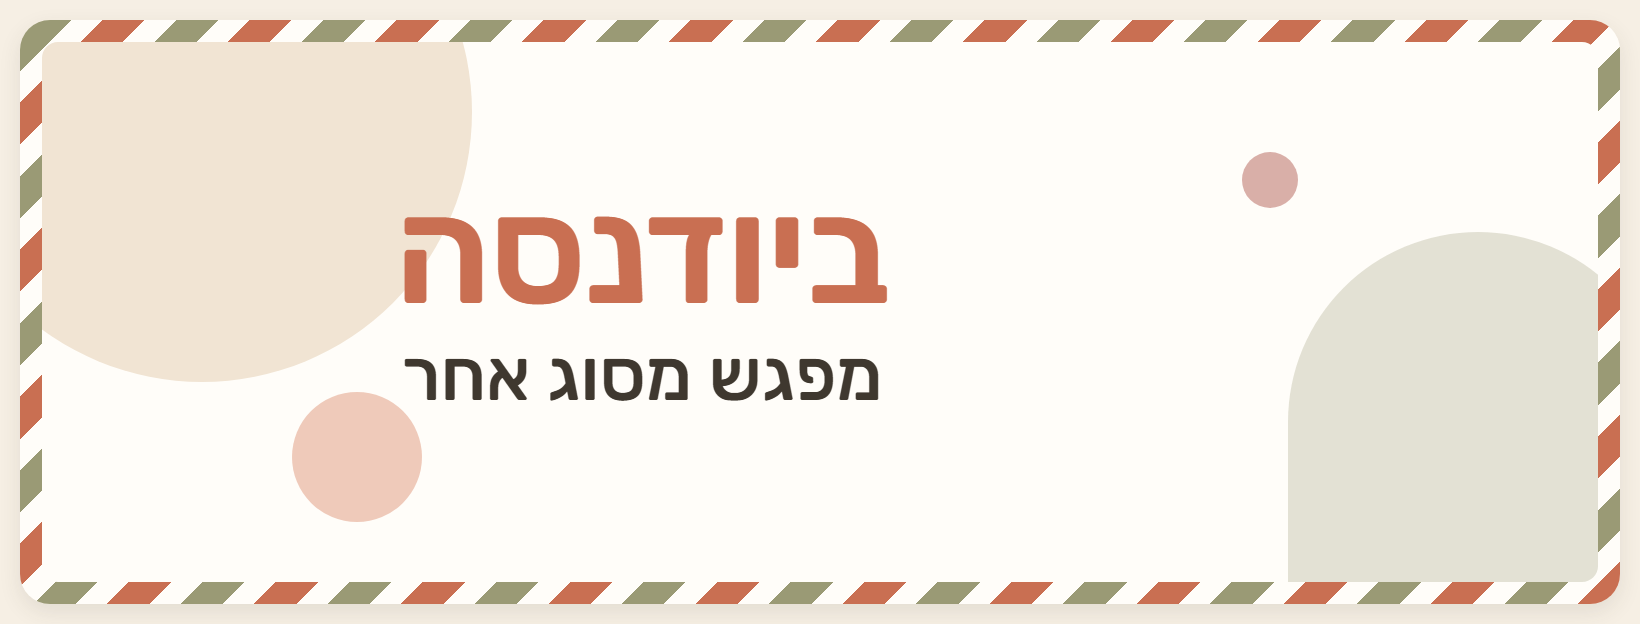
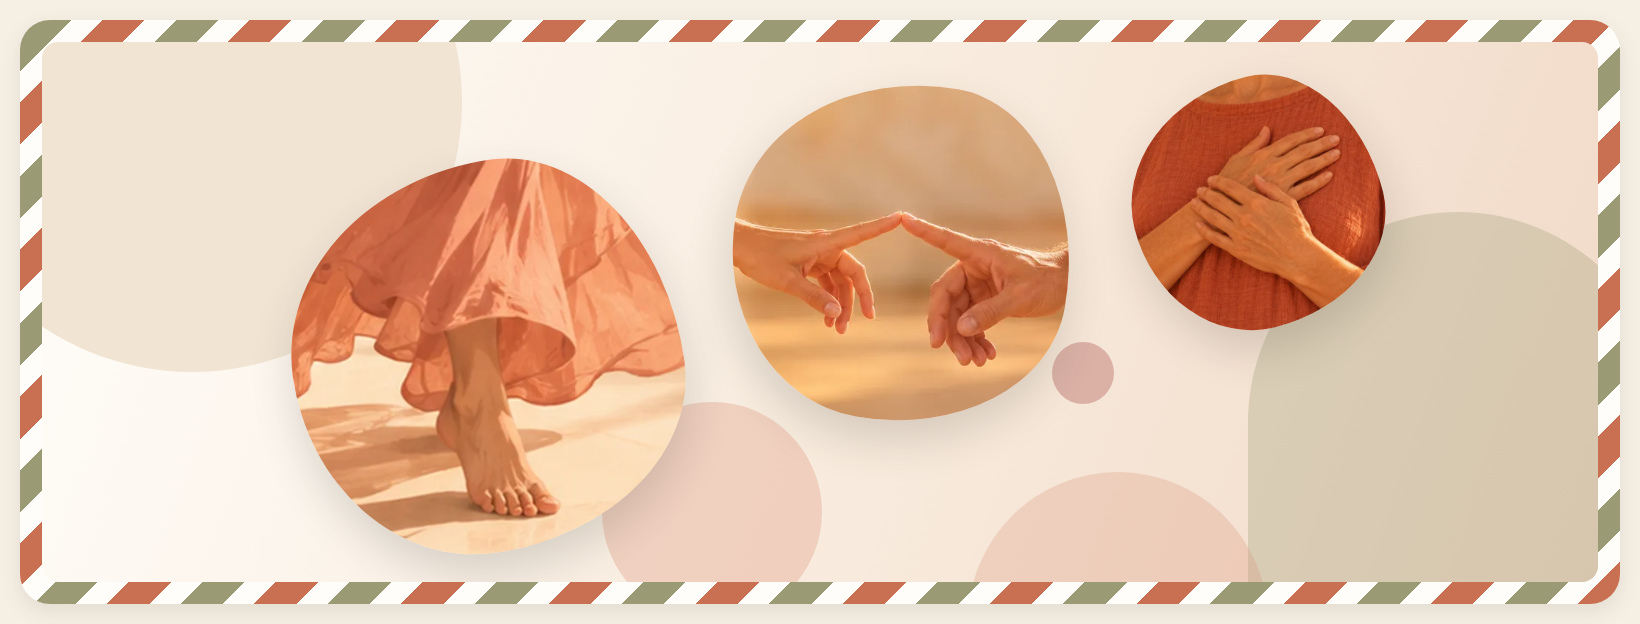
ads/social: קאבר תמונת אווירה בלי טקסט (שלוש בועות צילום בשפת האתר)

diff --git a/ads/tools/build_social.py b/ads/tools/build_social.py
@@ -23,30 +23,33 @@ img{{position:absolute;inset:0;width:100%;height:100%;object-fit:cover;object-po
 </body></html>'''
 
 COVER_T = f'''<!doctype html><html lang="he" dir="rtl"><meta charset="utf-8">
-<link href="https://fonts.googleapis.com/css2?family=Rubik:wght@500;600;700&family=Amatic+SC:wght@700&display=swap" rel="stylesheet">
 <style>
 *{{margin:0;box-sizing:border-box}}html,body{{width:1640px;height:624px;overflow:hidden}}
-body{{background:#F6EFE4;position:relative;font-family:Rubik,sans-serif;color:#3F382F}}
-/* מעטפת דואר: מסגרת פסים סביב כל הקאבר, בלי תמונה */
+body{{background:#F6EFE4;position:relative}}
+/* תמונת אווירה בלי טקסט: מסגרת פסי דואר + שלוש בועות צילום בשפת האתר */
 .frame{{position:absolute;inset:20px;border-radius:30px;padding:22px;background:repeating-linear-gradient(-45deg,#C96F52 0 30px,#FFFDF9 30px 52px,#9A9A75 52px 82px,#FFFDF9 82px 104px);box-shadow:0 8px 22px rgba(63,56,47,.10)}}
-.paper{{position:relative;width:100%;height:100%;border-radius:16px;background:#FFFDF9;overflow:hidden}}
-.c1{{position:absolute;left:-110px;top:-200px;width:540px;height:540px;border-radius:50%;background:#F1E4D3}}
-.c2{{position:absolute;right:-70px;bottom:-110px;width:380px;height:460px;border-radius:190px 190px 0 0;background:rgba(154,154,117,.28)}}
-.c3{{position:absolute;left:250px;bottom:60px;width:130px;height:130px;border-radius:50%;background:#E9B8A4;opacity:.75}}
-.c4{{position:absolute;right:300px;top:110px;width:56px;height:56px;border-radius:50%;background:#C98D86;opacity:.7}}
-.stamp{{position:absolute;left:330px;top:50px;width:96px;height:114px;background:#F3E3D1;border:9px dotted #FFFDF9;outline:2px solid #E6D3BC;outline-offset:-2px;transform:rotate(4deg);padding:10px}}
-.hand{{position:absolute;right:340px;top:40px;font-family:"Amatic SC";font-weight:700;font-size:118px;line-height:1;color:#B85C40}}
-.txt{{position:absolute;left:250px;width:700px;top:0;bottom:0;display:flex;flex-direction:column;align-items:center;justify-content:center;text-align:center;padding-bottom:30px}}
-h1{{font-size:150px;line-height:.98;font-weight:600;letter-spacing:-.01em;color:#C96F52}}
-.sub{{margin-top:10px;font-size:72px;line-height:1.1;font-weight:500;color:#3F382F}}
+.paper{{position:relative;width:100%;height:100%;border-radius:16px;overflow:hidden;background:linear-gradient(110deg,#FFFDF9 0%,#F8EBDD 55%,#F1D9C7 100%)}}
+.sh{{position:absolute}}
+.s1{{left:-120px;top:-210px;width:540px;height:540px;border-radius:50%;background:#F1E4D3}}
+.s2{{right:-70px;bottom:-130px;width:420px;height:500px;border-radius:210px 210px 0 0;background:rgba(154,154,117,.30)}}
+.s3{{left:560px;bottom:-40px;width:220px;height:220px;border-radius:50%;background:#E9B8A4;opacity:.55}}
+.s4{{left:1010px;top:300px;width:62px;height:62px;border-radius:50%;background:#C98D86;opacity:.6}}
+.s5{{right:330px;top:430px;width:300px;height:300px;border-radius:50%;background:rgba(217,139,112,.25)}}
+.b{{position:absolute;overflow:hidden;border-radius:58% 42% 55% 45% / 48% 58% 42% 52%;box-shadow:0 20px 44px rgba(63,56,47,.18)}}
+.b img{{width:100%;height:100%;object-fit:cover}}
+.b1{{left:250px;top:120px;width:390px;height:390px;transform:rotate(-8deg)}} .b1 img{{transform:rotate(8deg) scale(1.3)}}
+.b2{{left:690px;top:40px;width:340px;height:340px;transform:rotate(10deg)}} .b2 img{{transform:rotate(-10deg) scale(1.3)}}
+.b3{{left:1090px;top:36px;width:250px;height:250px;transform:rotate(-14deg)}} .b3 img{{transform:rotate(14deg) scale(1.3)}}
 </style><body>
 <div class="frame"><div class="paper">
-<div class="c1"></div><div class="c2"></div><div class="c3"></div><div class="c4"></div>
-<div class="txt"><h1>ביודנסה</h1><div class="sub">@@SUB@@</div></div>
+<div class="sh s1"></div><div class="sh s2"></div><div class="sh s3"></div><div class="sh s4"></div><div class="sh s5"></div>
+<div class="b b1"><img src="{IMG}/dance-foot.webp"></div>
+<div class="b b2"><img src="{IMG}/fingertips.webp"></div>
+<div class="b b3"><img src="{IMG}/hands-heart-wide.webp"></div>
 </div></div></body></html>'''
 
-def cover(sub):
-    return COVER_T.replace("@@SUB@@", sub)
+def cover(sub=None):
+    return COVER_T
 
 def shot(html, w, h, name):
     tmp = pathlib.Path(tempfile.mkdtemp()); f = tmp / "p.html"; f.write_text(html, encoding="utf-8")
